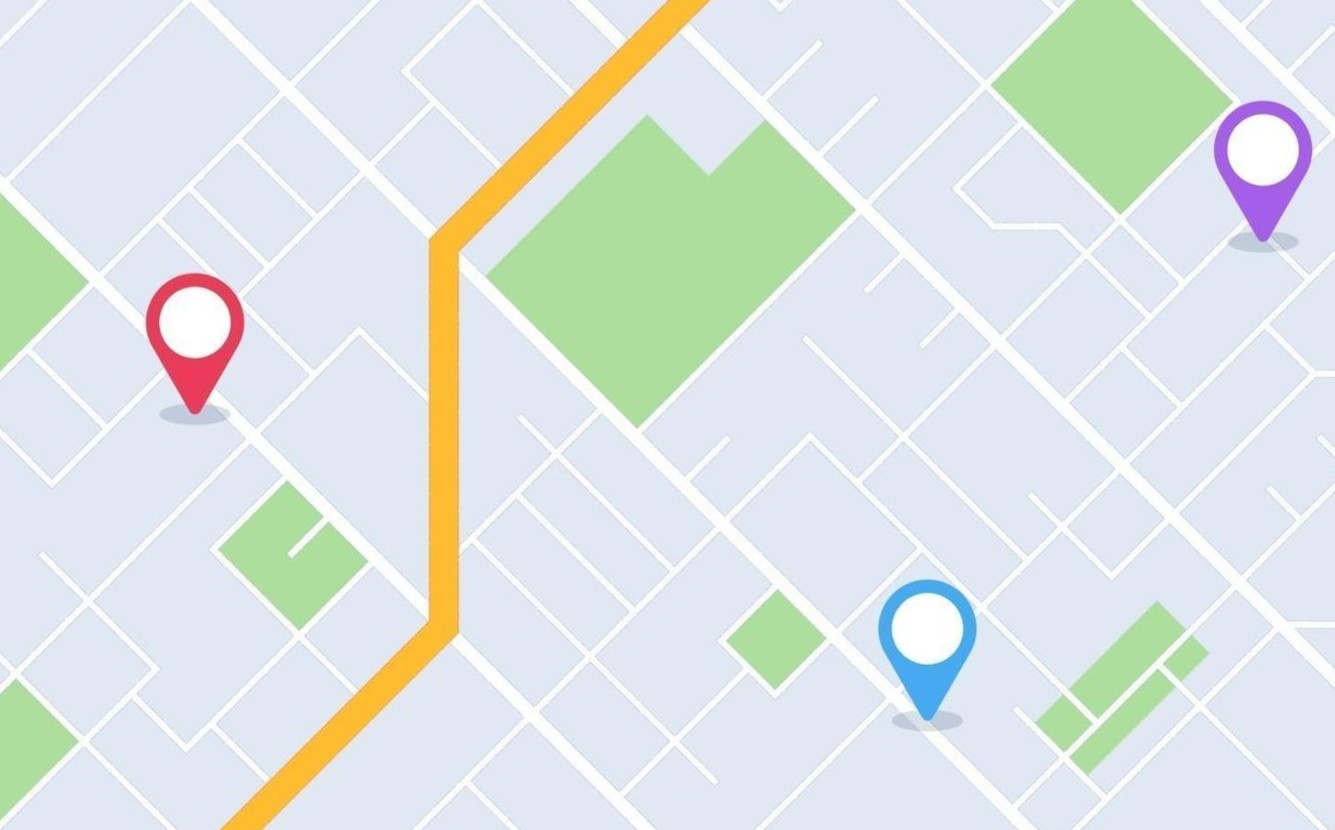
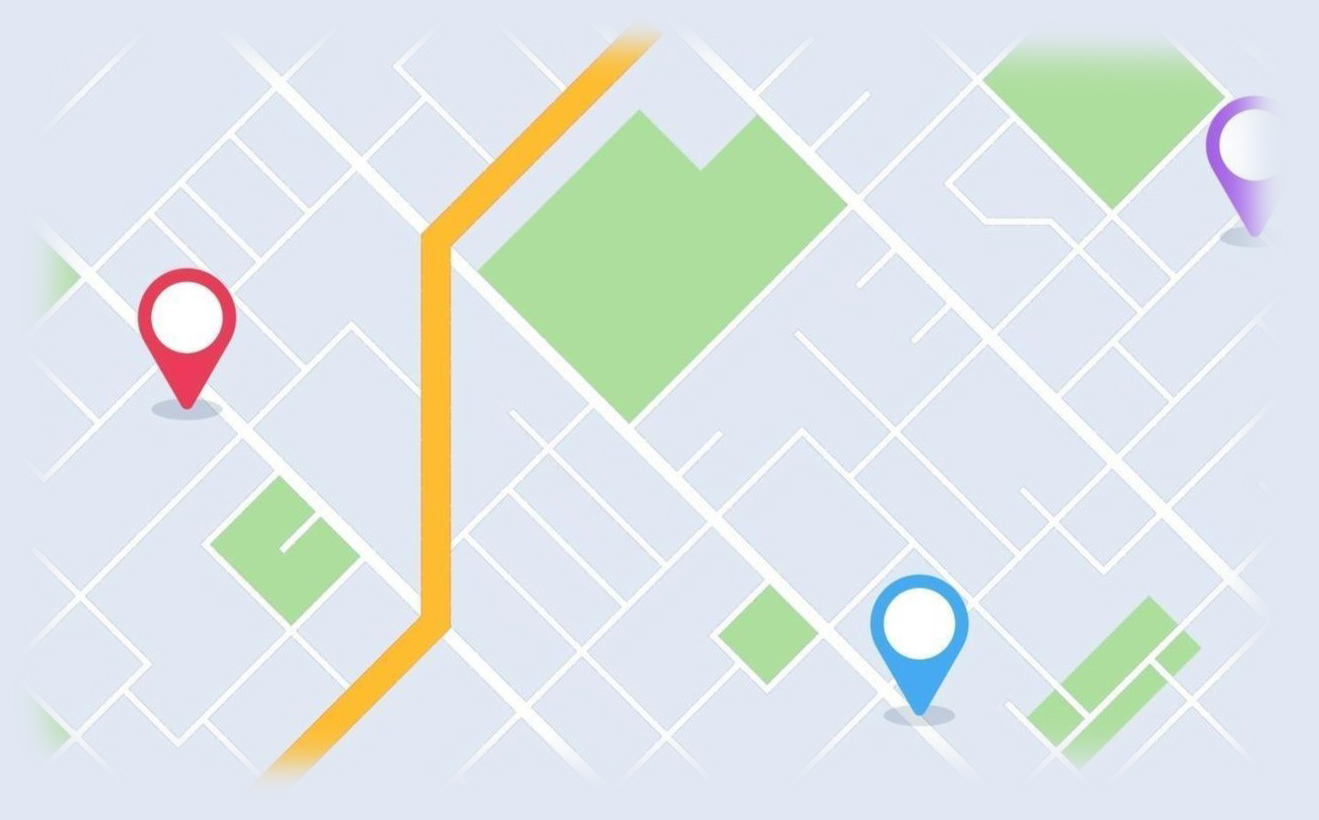
Animações e estilos da pagina acompanhar pedido

diff --git a/src/views/AcompanharPedido.vue b/src/views/AcompanharPedido.vue
@@ -1,26 +1,27 @@
 <template>
     <div class="viewAcompanharPedido">
-        
+
         <div class="cardPrincipal">
             <h3>O pedido está sendo preparado...</h3>
             <p class="status">Previsão de entrega</p>
             <p class="previsao">Hoje, 19:45 - 20:10 </p>
-                <div class="hr-container">
-                    <hr>
-                    <hr>
-                    <hr>
-                </div>
-                <div class="codigo-pedido">
-                    <p class="ponto-verde">.</p>
-                    <p>Use o código <u>0000</u> para receber seu pedido.</p>
-                </div>
-            
-                <div class="confirmar-pedido">
-                    <p class="seu-pedido-chegou">Seu pedido chegou?</p>
-                    <p class="frase-confirmacao">Confirme assim que receber o pedido e nos ajude a saber se deu tudo certo! </p>
-                    <input type="button" value="Confirmar entrega" class="btn-confirmar">
+            <div class="hr-container">
+                <hr class="status-concluido">
+                <hr class="status-aguardando">
+                <hr class="">
+            </div>
+            <div class="codigo-pedido">
+                <p class="ponto-verde">.</p>
+                <p>Use o código <u>0000</u> para receber seu pedido.</p>
+            </div>
 
-                </div>
+            <div class="confirmar-pedido">
+                <p class="seu-pedido-chegou">Seu pedido chegou?</p>
+                <p class="frase-confirmacao">Confirme assim que receber o pedido e nos ajude a saber se deu tudo certo!
+                </p>
+                <input type="button" value="Confirmar entrega" class="btn-confirmar">
+
+            </div>
 
             <div class="endereco-entrega">
                 <p><b>Endereço de entrega</b></p>
@@ -29,27 +30,27 @@
                     <div class="dados-endereco">
                         <p>Endereço <br>Bairro - São Paulo, SP</p>
                     </div>
-                </div>   
-                    <p><b>Detalhes do pedido</b></p>
+                </div>
+                <p><b>Detalhes do pedido</b></p>
                 <div class="restaurante">
                     <img src="../assets/imagem_default.png" alt="imagem restaurante">
                     <p>Nome restaurante</p>
-                </div>   
-            
+                </div>
+
 
                 <div class="total-entrega">
                     <p><b>Total com entrega</b></p>
-                    <p>R$ 45,00</p>  
-                
+                    <p>R$ 45,00</p>
+
                 </div>
 
-             </div>
-            
-            
-            
+            </div>
 
 
-        </div>    
+
+
+
+        </div>
 
 
     </div>
@@ -60,164 +61,198 @@ export default {
 }
 </script>
 <style scoped>
+p,
+h3 {
+    margin: 0
+}
 
-.viewAcompanharPedido{
+@keyframes loading {
+    0% {
+        transform: scaleX(0)
+    }
+
+    100% {
+        transform: scaleX(1)
+    }
+}
+
+@keyframes passear {
+    0% {
+        background-position: 0vw 300vw;
+    }
+
+    100% {
+        background-position: 300vw 0vw;
+    }
+}
+
+.viewAcompanharPedido {
     background-image: url(../assets/fundoMaps.jpg);
+    background-repeat: repeat;
+    -webkit-backdrop-filter: blur(100px);
+    backdrop-filter: blur(100px);
     width: 100vw;
-    height: 100vh; 
+    height: 100vh;
     display: flex;
     align-items: center;
     justify-content: center;
-    
+    animation: passear 300s infinite linear alternate;
 }
 
-.cardPrincipal{
+
+
+.cardPrincipal {
     display: flex;
     flex-direction: column;
-    border: 5px solid white;
-    width: 35vw;
-    height: 95vh;
+    border-radius: 1rem;
     background-color: white;
-    
- 
+    padding: 2rem 4rem;
+    box-shadow: 0px 0px 60vw white;
+    height: 80vh;
+    width: 35vw;
+    justify-content: space-between;
 }
 
-.status{
-    display: flex;
-    align-items: flex-start; 
-    font-size: 15px;
-    color: #3e3e3e;
-    
-    
-}
-
-.previsao{
+.status {
     display: flex;
     align-items: flex-start;
-    font-size: 20px;
-    margin-top: 0.2px;
-    
-    
-} 
+    font-size: 1.2vw;
+    color: #3e3e3e;
 
-.hr-container{
+
+}
+
+.previsao {
     display: flex;
-    justify-content: space-between;    
-    
+    align-items: flex-start;
+    font-size: 1.6vw;
 }
 
-hr{
-    flex: 0.3;
-    height: 4px; 
-    background-color: rgb(34, 180, 34); 
+.hr-container {
+    display: flex;
+    justify-content: space-between;
+}
+
+hr {
+    width: 32%;
+    height: 4px;
     border: none;
+    transform-origin: left;
     border-radius: 2px;
+    background-color: rgb(235, 235, 235)
+}
+
+.status-aguardando {
+    background-color: rgb(34, 180, 34);
+    animation: loading 2s infinite linear;
+}
+
+.status-concluido {
+    background-color: rgb(34, 180, 34);
 }
 
 
-.codigo-pedido{
+
+.codigo-pedido {
     font-size: 14px;
     display: flex;
     align-items: flex-start;
-    margin-left: 10px;
 }
 
-.ponto-verde{
+.ponto-verde {
     border-radius: 100%;
     background-color: green;
-    width: 20px;
+    width: 1rem;
+    height: 1rem;
     color: green;
-    margin-top: 15px;
-    margin-right: 15px;
-    
+    margin-right: 1rem;
 }
 
-.confirmar-pedido{
+.confirmar-pedido {
     display: flex;
     flex-direction: column;
     align-items: center;
-    border: 1px solid #e2dfdf;
-    margin-top: 20px;    
+    border: 1px solid #e2dfdf93;
+    gap: 1rem;
+    padding: 0.5rem;
+    border-radius: 0.3rem;
 }
 
-.seu-pedido-chegou{
+.seu-pedido-chegou {
     font-size: 15px;
     margin-bottom: 1px;
     color: #EA1D2C;
 }
 
-.frase-confirmacao{
+.frase-confirmacao {
     font-size: 12px;
-    color: #3e3e3e;        
+    color: #3e3e3e;
 }
 
-.btn-confirmar{
+.btn-confirmar {
     border: none;
     background-color: #EA1D2C;
     height: 5vh;
     width: 20vw;
     margin-bottom: 10px;
     border-radius: 3px;
-    color: white;  
-    
+    color: white;
+
 }
 
-.btn-confirmar:hover{
+.btn-confirmar:hover {
     background-color: rgb(230, 73, 73);
-    cursor: pointer;  
+    cursor: pointer;
 
 }
 
-.endereco-entrega{
+.endereco-entrega {
     display: flex;
     text-align: left;
     flex-direction: column;
     font-size: 14px;
-    
+    gap: 1rem;
 }
 
-.img-endereco{
+.img-endereco {
     display: flex;
     align-items: center;
 }
 
-.img-endereco img{
+.img-endereco img {
     display: flex;
     align-items: flex-start;
     width: 35px;
     height: 35px;
     margin-right: 10px;
-    
+
 }
 
-.dados-endereco{
+.dados-endereco {
     display: flex;
     text-align: left;
-    flex-direction: column;   
-    
+    flex-direction: column;
+
 }
 
-.restaurante{
+.restaurante {
     display: flex;
     align-items: center;
-    
+
 }
 
-.restaurante img{
+.restaurante img {
     width: 40px;
     height: 40px;
     border-radius: 100%;
     margin-right: 10px;
-    
+
 }
 
-.total-entrega{
+.total-entrega {
     display: flex;
     font-size: 15px;
     justify-content: space-between;
-    
+
 }
-
-
-
-</style> 
+</style>
